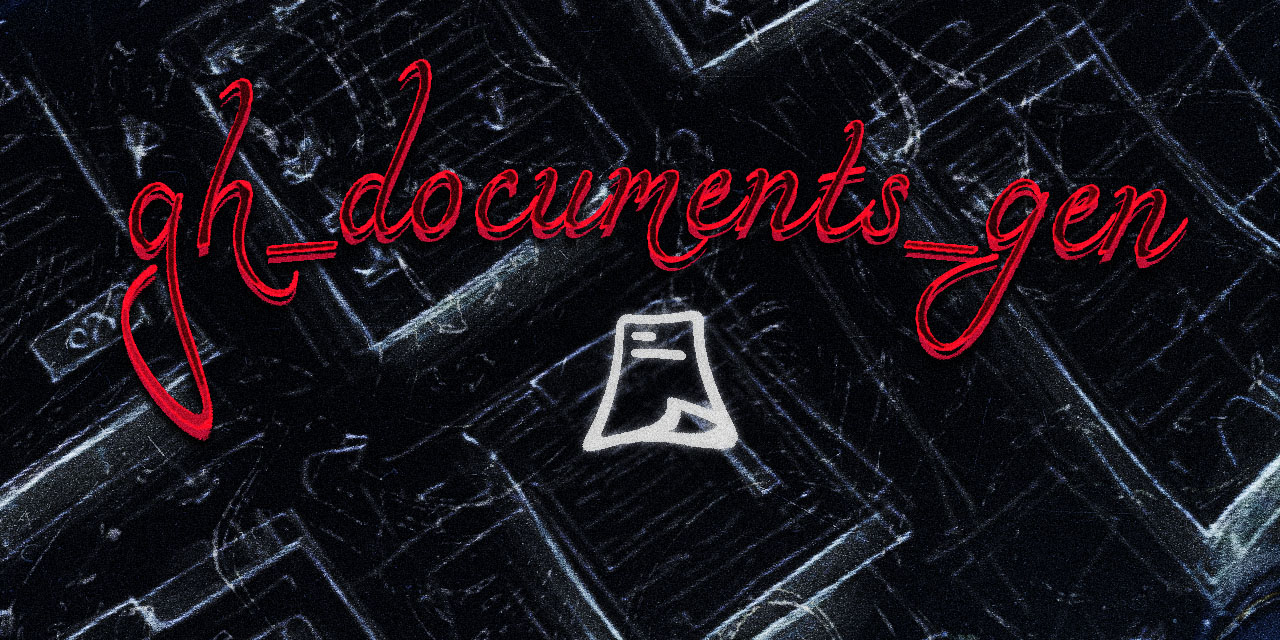
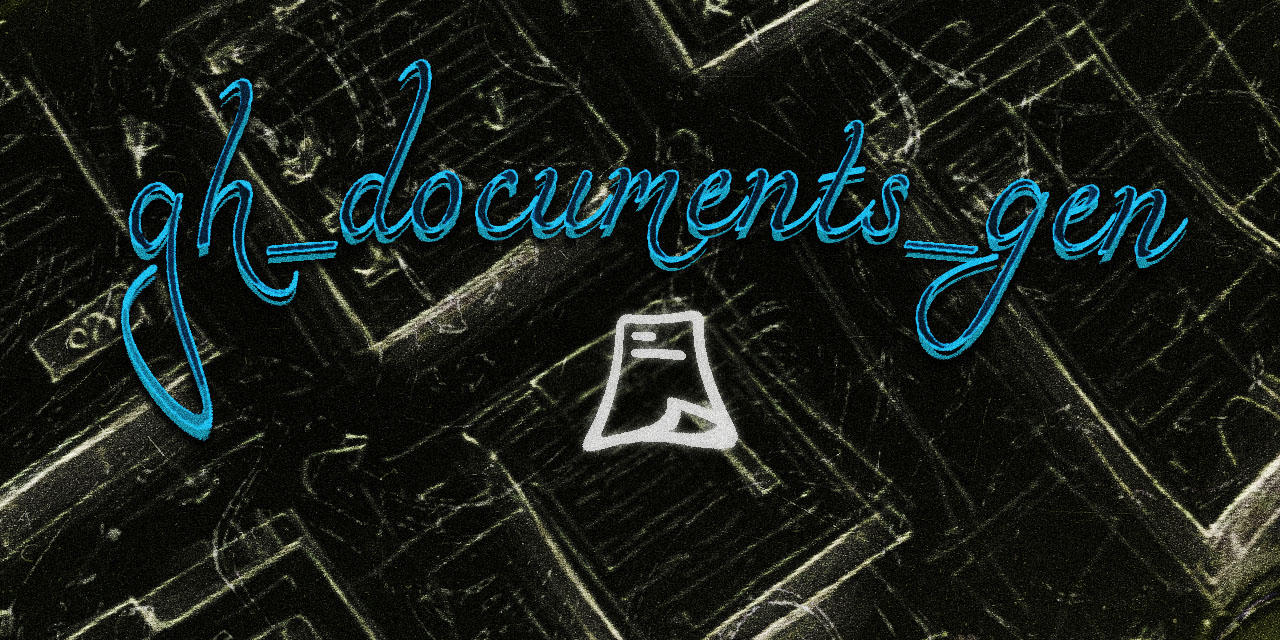
new version 0.1.0
* fix: routing base path problem, view image on home page

* changes: readme file

* fix: pull_request_template.yml on md file XD

* fix: issue template file naming

* change: banner.jpg

diff --git a/src/pages/PullRequestTemplate.tsx b/src/pages/PullRequestTemplate.tsx
@@ -2,66 +2,53 @@
 import DownloadButton from "../components/DownloadButton.tsx";
 
 const PullRequestTemplate = () => {
-  const template: string = `
-  name: Pull Request
-description: Describe the changes and purpose of this PR
+  const template: string = `# Pull Request
 
-body:
-  - type: textarea
-    id: description
-    attributes:
-      label: Description
-      description: What does this PR do and why?
-    validations:
-      required: true
+## Description
+What does this PR do and why?
 
-  - type: input
-    id: related_issue
-    attributes:
-      label: Related Issue
-      description: Reference the issue (e.g., Closes #123)
+<!-- Describe your changes clearly and explain the purpose -->
 
-  - type: checkboxes
-    id: type_of_change
-    attributes:
-      label: Type of Change
-      options:
-        - label: Bug fix
-        - label: New feature
-        - label: Refactoring
-        - label: Documentation update
-        - label: Security improvement
-        - label: Performance improvement
+## Related Issue
+<!-- Reference the issue (e.g., Closes #123) -->
 
-  - type: checkboxes
-    id: testing
-    attributes:
-      label: How Has This Been Tested?
-      options:
-        - label: Linux
-        - label: Windows
-        - label: macOS
+Closes #
 
-  - type: textarea
-    id: test_commands
-    attributes:
-      label: Commands used to test
-      render: bash
+## Type of Change
+<!-- Select all that apply -->
 
-  - type: checkboxes
-    id: checklist
-    attributes:
-      label: Checklist
-      options:
-        - label: Code follows the project's style guidelines
-        - label: README updated if needed
-        - label: No new security vulnerabilities introduced
+- [ ] Bug fix
+- [ ] New feature
+- [ ] Refactoring
+- [ ] Documentation update
+- [ ] Security improvement
+- [ ] Performance improvement
 
-  - type: textarea
-    id: screenshots
-    attributes:
-      label: Screenshots / Output
-      description: Attach terminal output or before/after screenshots`
+## How Has This Been Tested?
+<!-- Select all platforms you tested on -->
+
+- [ ] Linux
+- [ ] Windows
+- [ ] macOS
+
+## Commands Used to Test
+<!-- Paste the commands you used to test -->
+
+\`\`\`bash
+# Your test commands here
+\`\`\`
+
+## Checklist
+<!-- Ensure all items are checked before merging -->
+
+- [ ] Code follows the project's style guidelines
+- [ ] README updated if needed
+- [ ] No new security vulnerabilities introduced
+
+## Screenshots / Output
+<!-- Attach terminal output or before/after screenshots -->
+
+<!-- Paste screenshots here -->`
 
   return (
     <div className="max-w-4xl mx-auto p-6 space-y-6">
@@ -75,8 +62,8 @@ body:
           <CopyButton content={template}/>
 
           <DownloadButton
-            name={"PULL_REQUEST_TEMPLATE.yml"}
-            extension={"yml"}
+            name={"PULL_REQUEST_TEMPLATE"}
+            extension={"md"}
             content_in_file={template}
           />
         </div>

diff --git a/src/pages/IssueTemplate.tsx b/src/pages/IssueTemplate.tsx
@@ -167,7 +167,7 @@ body:
           <CopyButton content={bugReport}/>
 
           <DownloadButton
-            name={"PULL_REQUEST_TEMPLATE.yml"}
+            name={"bug_report"}
             extension={"yml"}
             content_in_file={bugReport}
           />
@@ -187,7 +187,7 @@ body:
           <CopyButton content={featureReport}/>
 
           <DownloadButton
-            name={"PULL_REQUEST_TEMPLATE.yml"}
+            name={"feature_request"}
             extension={"yml"}
             content_in_file={featureReport}
           />

diff --git a/src/pages/Home.tsx b/src/pages/Home.tsx
@@ -23,7 +23,7 @@
           <div className="absolute inset-0 bg-gray-200 rounded-3xl blur-3xl opacity-40"/>
 
           <img
-            src="/favicon.png"
+            src={`${import.meta.env.BASE_URL}/favicon.png`}
             alt="Developer workspace"
             className="relative rounded-3xl  object-cover w-full h-[500px]"
           />

diff --git a/src/main.tsx b/src/main.tsx
@@ -4,7 +4,7 @@ import './index.css'
 import App from './App.tsx'
 
 createRoot(document.getElementById('root')!).render(
-  <BrowserRouter>
+  <BrowserRouter basename={'/gh_documents_gen/'}>
     <App/>
   </BrowserRouter>
 )

diff --git a/.github/PULL_REQUEST_TEMPLATE.md b/.github/PULL_REQUEST_TEMPLATE.md
@@ -1,0 +1,47 @@
+# Pull Request
+
+## Description
+What does this PR do and why?
+
+<!-- Describe your changes clearly and explain the purpose -->
+
+## Related Issue
+<!-- Reference the issue (e.g., Closes #123) -->
+
+Closes #
+
+## Type of Change
+<!-- Select all that apply -->
+
+- [ ] Bug fix
+- [ ] New feature
+- [ ] Refactoring
+- [ ] Documentation update
+- [ ] Security improvement
+- [ ] Performance improvement
+
+## How Has This Been Tested?
+<!-- Select all platforms you tested on -->
+
+- [ ] Linux
+- [ ] Windows
+- [ ] macOS
+
+## Commands Used to Test
+<!-- Paste the commands you used to test -->
+
+```bash
+# Your test commands here
+```
+
+## Checklist
+<!-- Ensure all items are checked before merging -->
+
+- [ ] Code follows the project's style guidelines
+- [ ] README updated if needed
+- [ ] No new security vulnerabilities introduced
+
+## Screenshots / Output
+<!-- Attach terminal output or before/after screenshots -->
+
+<!-- Paste screenshots here -->

diff --git a/README.md b/README.md
@@ -69,6 +69,10 @@
 
 ## 🗃 Devlog
 
+### 0.1.0
+- fix: problem with base path routing
+- fix: render image on home page
+
 ### 0.0.1
 - current: ru lang support
 - add: contributing, license (mit, apache, gpl), code of conduct, funding, issue template, pull request template, security documents generator and pages
